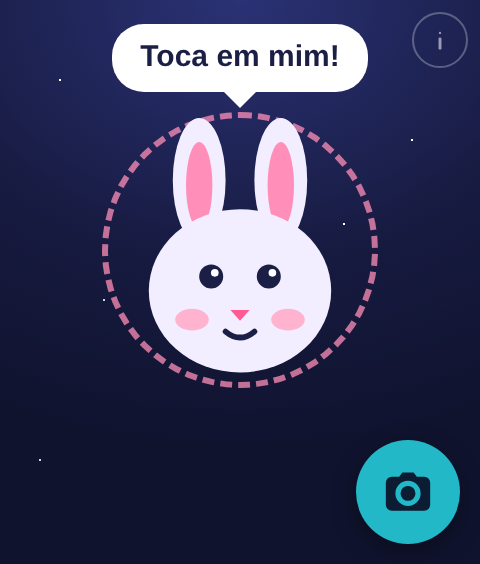
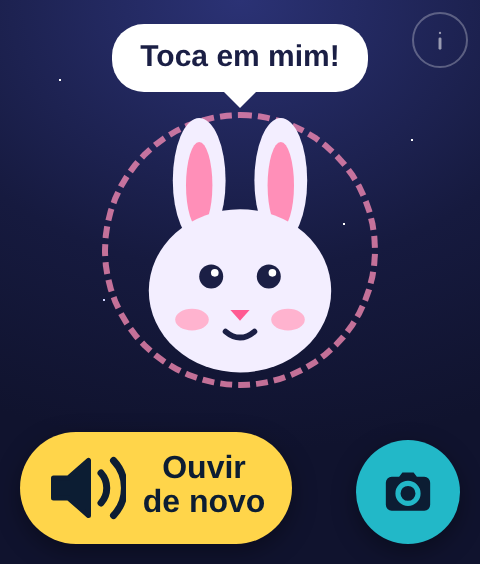
Make the last answer easy to hear again

Changed region(s): [[0.0312, 0.7535, 0.625, 0.9645]]

diff --git a/app/index.html b/app/index.html
@@ -141,19 +141,24 @@
     }
     #camera-btn svg { width: 28px; height: 28px; }
     #camera-btn:disabled { opacity: 0.35; }
-    /* Hear the last answer again; only while the conversation is fresh. */
+    /* A large speaker and a short label make replay easy to find. */
     #replay-btn {
       position: absolute;
       left: 10px; bottom: 10px;
-      width: 52px; height: 52px;
-      display: grid; place-items: center;
+      width: 136px; height: 56px;
+      display: flex; align-items: center; justify-content: center;
+      gap: 8px;
+      padding: 8px 10px;
       border: none;
-      border-radius: 50%;
+      border-radius: 28px;
       background: var(--sun);
       color: #0C1D33;
       box-shadow: 0 4px 12px rgba(0,0,0,0.35);
+      font-size: 16px;
+      font-weight: 800;
+      line-height: 1.05;
     }
-    #replay-btn svg { width: 28px; height: 28px; }
+    #replay-btn svg { width: 40px; height: 40px; flex-shrink: 0; }
 
     /* ─── Rabbit faces per state ────────────────────── */
     .face { display: none; }
@@ -437,8 +442,9 @@
 
   <div id="status" role="status" aria-live="polite"></div>
 
-  <button id="replay-btn" type="button" aria-label="Ouvir outra vez" hidden>
-    <svg viewBox="0 0 24 24" fill="none" stroke="currentColor" stroke-width="2.6" stroke-linecap="round" stroke-linejoin="round" aria-hidden="true"><path d="M4 12a8 8 0 1 0 2.4-5.7"/><path d="M4 4v4.5h4.5"/></svg>
+  <button id="replay-btn" type="button" aria-label="Ouvir de novo a última resposta" hidden>
+    <svg viewBox="0 0 32 32" aria-hidden="true"><path d="M3 12h6l8-7v22l-8-7H3z" fill="currentColor" stroke="currentColor" stroke-width="2" stroke-linejoin="round"/><path d="M22 10a9 9 0 0 1 0 12m5-17a16 16 0 0 1 0 22" fill="none" stroke="currentColor" stroke-width="2.8" stroke-linecap="round"/></svg>
+    <span aria-hidden="true">Ouvir<br>de novo</span>
   </button>
 
   <button id="camera-btn" type="button" aria-label="Tirar uma fotografia">
@@ -508,7 +514,7 @@
 // Identifies the actual loaded page, independently of the installation URL.
 // Update both values whenever publishing a new Creation release.
 const APP_RELEASE = Object.freeze({
-  version: '2026.11.06.1',
+  version: '2026.11.06.2',
   published: '6 de novembro de 2026',
 });
 
@@ -723,7 +729,6 @@ let activeQuery = null;
 let conversation = [];
 let lastTurnAt = 0;
 let lastAnswer = null;
-let replayTimer = null;
 let childAge = DEFAULT_AGE;
 let history = [];
 let isHistoryOpen = false;
@@ -1202,12 +1207,6 @@ function rememberTurn(question, answer, followups, audio) {
   conversation = recentConversation().concat({ question, answer, followups }).slice(-MAX_CONTEXT_TURNS);
   lastTurnAt = now;
   lastAnswer = { text: spokenText(answer, followups), audio };
-  clearTimeout(replayTimer);
-  replayTimer = setTimeout(() => {
-    replayTimer = null;
-    lastAnswer = null;
-    updateReplay();
-  }, CONVERSATION_MS);
   history = [{ at: now, question, answer }].concat(history).slice(0, MAX_HISTORY);
   if (preferencesLoaded) saveHistory();
 }
@@ -1233,7 +1232,7 @@ function updateReplay() {
 function fail(message, adultHelp = false) {
   isBusy = false;
   isStartingVoice = false;
-  setUI(adultHelp ? 'unavailable' : 'error', adultHelp ? 'Pede ajuda a um adulto.' : 'Tenta outra vez!');
+  setUI(adultHelp ? 'unavailable' : 'error', adultHelp ? 'Pede ajuda a um adulto.' : '');
   if (adultHelp) speak(message);
   else playVoice(message, ownKeys ? null : backendUrl(OOPS_AUDIO_PATH));
 }

diff --git a/README.md b/README.md
@@ -4,7 +4,7 @@ Turn a Rabbit R1 into a European Portuguese question-and-answer companion for ch
 
 A Rabbit R1 Creation that lets a child ask questions by voice or with a photo and hear short answers in European Portuguese, spoken by the rabbit on the R1 screen.
 
-<a href="https://jhacarreiro.github.io/kids-explorer/install/"><img src="docs/r1-screen.png" width="240" alt="Kids Explorer on the Rabbit R1: a rabbit on a night sky says «Toca em mim!», with a camera button in the corner"></a>
+<a href="https://jhacarreiro.github.io/kids-explorer/install/"><img src="docs/r1-screen.png" width="240" alt="Kids Explorer on the Rabbit R1: a rabbit on a night sky says «Toca em mim!», with a large yellow speaker button to hear the last answer again and a camera button"></a>
 
 ## Install on your Rabbit R1
 
@@ -16,6 +16,8 @@ It runs on your own keys: the R1 talks directly to OpenAI (and, optionally, Azur
 4. **Start exploring.** Open **Explorador Curioso** from its card. Tap the rabbit to ask a question, or the round camera button to ask about something you can see. When the photo shows writing, such as a book page, a sign or a package, the rabbit reads it aloud instead, translated into European Portuguese when needed.
 
 The QR code contains your keys, so treat it like a password: anyone who scans it can spend on your accounts. If it leaks, delete the key at OpenAI and generate a new QR. No account is needed for the child; questions, answers and history stay on the R1 and your own OpenAI account. The small **i** at the top holds the adult settings: the child's age and the history kept on the device.
+
+After an answer, the large yellow speaker button, **Ouvir de novo**, plays the last answer again from the beginning. It reuses the same audio when available, without sending another question or generating a new answer. It stays available for the current visit, even after the conversation context expires; reloading the Creation clears it. When speech uses the device voice, it reads the same answer again. Retry guidance appears only in the rabbit's speech bubble, without a duplicate message underneath.
 
 ## How it works
 
